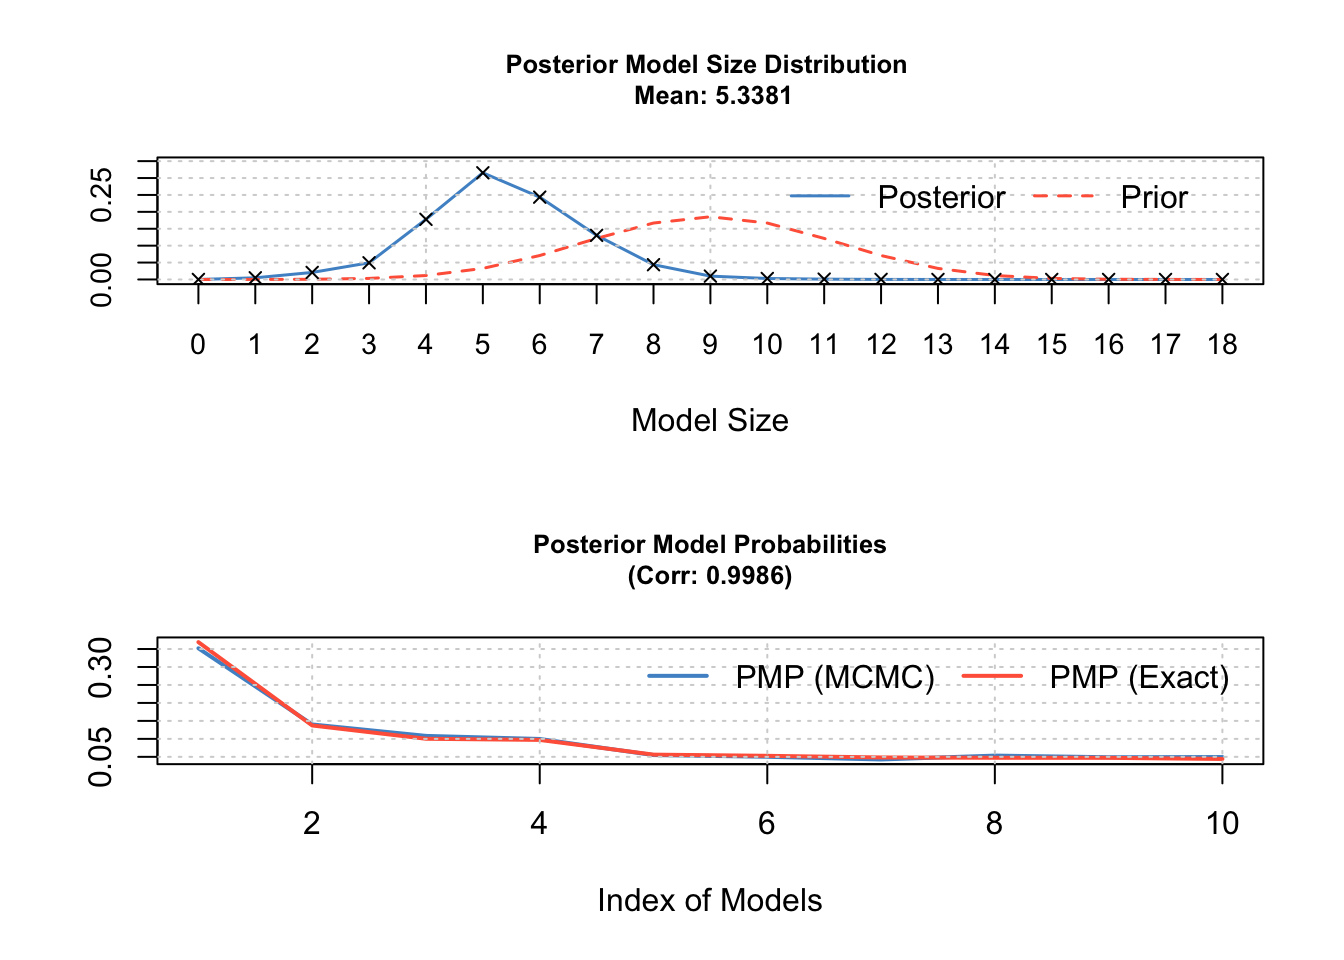
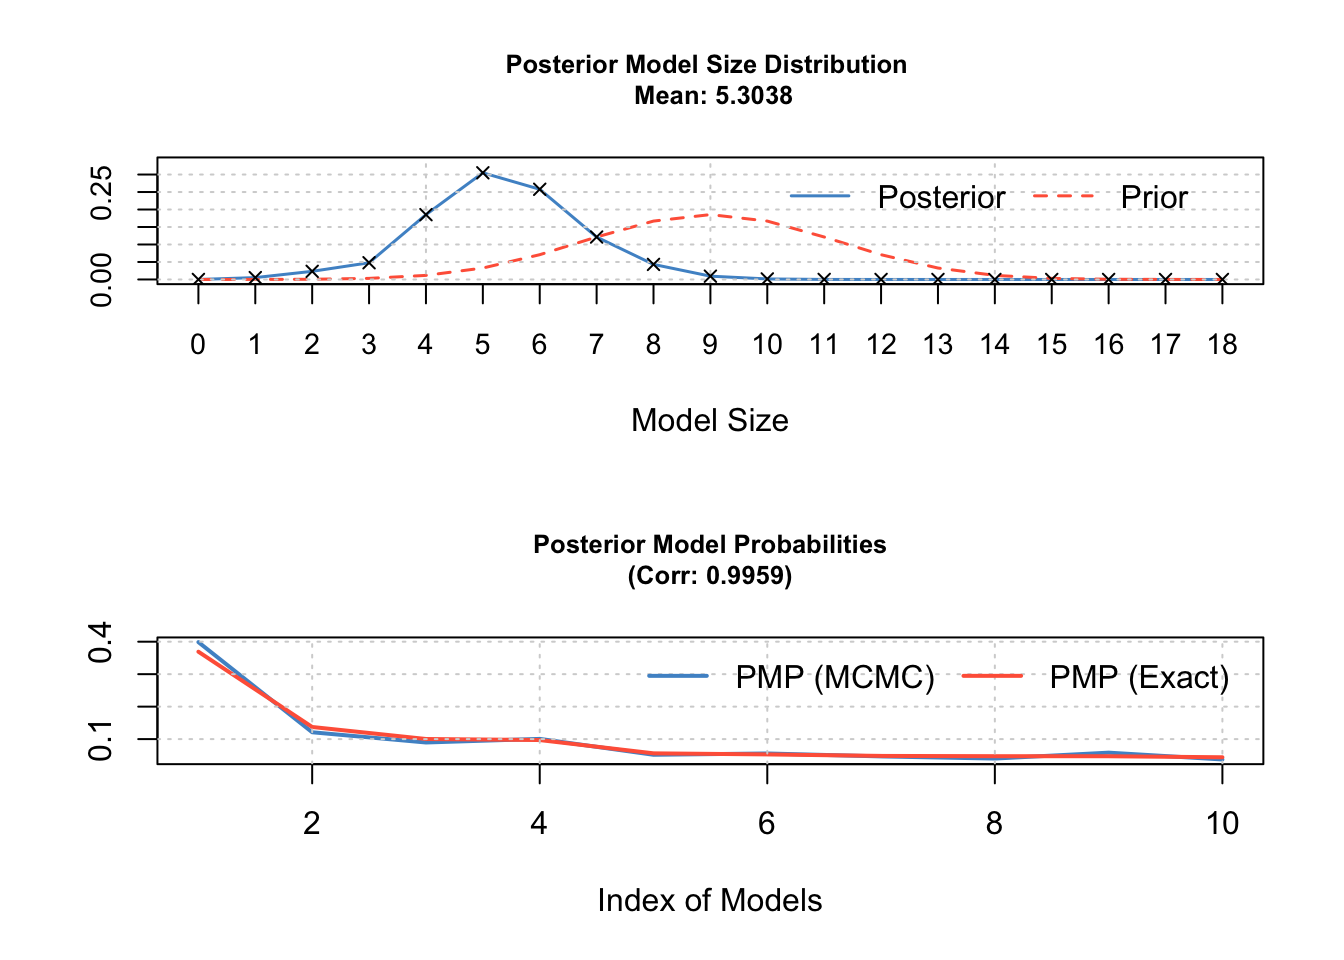
prova

diff --git a/README.md b/README.md
@@ -344,33 +344,33 @@ X.data <- cbind(y, X[,1:18])
 bma1   <- bms(X.data = X.data, burn = 10000, iter = 50000, mprior = "uniform", 
               mcmc = "rev.jump", nmodel = 10, logfile = FALSE)
 ##                 PIP     Post Mean      Post SD Cond.Pos.Sign Idx
-## PPIACO_l1   0.99680  3.266297e-03 0.0009599104    1.00000000  13
-## GDPC1_l1    0.88526  1.196331e+00 0.5829875279    0.99979667   4
-## GASPRICE_l1 0.84214 -2.792352e-02 0.0160532299    0.00007125  18
-## EC_l1       0.78746 -5.790857e-01 0.3654072521    0.00053336   2
-## USPRIV_l1   0.20884 -7.747777e-02 0.2066189914    0.00000000   6
-## T10Y3MM_l1  0.20536 -7.111887e-02 0.2343672630    0.00000000   9
-## HOUST_l1    0.18572  1.520020e-03 0.0041892161    1.00000000   5
-## M1SL_l1     0.15404  2.137163e-03 0.0077733380    0.77862893  11
-## T10YFFM_l1  0.15308 -5.885724e-03 0.1935857244    0.17546381  10
-## DJIA_l1     0.13586  5.338842e-03 0.0189344570    1.00000000  14
-## MICH_l1     0.11760  3.551679e-02 0.1572275567    1.00000000  12
-## NAPMPMI_l1  0.10700 -5.019800e-05 0.0002744935    0.02766355  15
-## OILPRICE_l1 0.10292  7.798076e-04 0.0068086762    0.79246016  17
-## PRFI_l1     0.09842 -3.062937e-03 0.0212311704    0.04998984   3
-## UNRATE_l1   0.09418 -3.072324e-04 0.0462571892    0.47441070   1
-## TB3MS_l1    0.08938  4.181405e-03 0.0371489761    0.84985455   7
-## NAPMSDI_l1  0.08766 -1.888389e-05 0.0001730605    0.09696555  16
-## GS10_l1     0.08642 -3.868457e-05 0.0014295282    0.33695904   8
+## PPIACO_l1   0.99720  3.264392e-03 0.0009608753    1.00000000  13
+## GDPC1_l1    0.88472  1.196029e+00 0.5827948079    0.99979655   4
+## GASPRICE_l1 0.83936 -2.784771e-02 0.0161314895    0.00071483  18
+## EC_l1       0.79246 -5.819827e-01 0.3634166073    0.00045428   2
+## USPRIV_l1   0.20272 -7.437110e-02 0.2022913869    0.00009866   6
+## T10Y3MM_l1  0.19572 -6.591490e-02 0.2215382231    0.00000000   9
+## HOUST_l1    0.17966  1.482692e-03 0.0041580234    1.00000000   5
+## T10YFFM_l1  0.15660 -9.874924e-03 0.1839826870    0.14559387  10
+## M1SL_l1     0.14664  2.026562e-03 0.0075919381    0.80946536  11
+## DJIA_l1     0.13742  5.412202e-03 0.0190438430    1.00000000  14
+## MICH_l1     0.11544  3.397267e-02 0.1520608112    1.00000000  12
+## TB3MS_l1    0.10076  4.892613e-03 0.0394021907    0.85013894   7
+## NAPMPMI_l1  0.09658 -4.473129e-05 0.0002613657    0.03147650  15
+## OILPRICE_l1 0.09572  7.168865e-04 0.0065926166    0.78666945  17
+## UNRATE_l1   0.09548 -1.841846e-04 0.0468454667    0.50041894   1
+## PRFI_l1     0.09176 -2.787283e-03 0.0204909523    0.05732345   3
+## NAPMSDI_l1  0.08884 -1.935531e-05 0.0001748396    0.09140027  16
+## GS10_l1     0.08674 -4.494878e-05 0.0014362988    0.31934517   8
 ## 
 ## Mean no. regressors               Draws             Burnins                Time  No. models visited      Modelspace 2^K 
-##            "5.3381"             "50000"             "10000"     "1.146196 secs"             "13974"            "262144" 
+##            "5.3038"             "50000"             "10000"     "1.129307 secs"             "13505"            "262144" 
 ##           % visited         % Topmodels            Corr PMP            No. Obs.         Model Prior             g-Prior 
-##               "5.3"                "30"            "0.9986"               "125"       "uniform / 9"               "UIP" 
+##               "5.2"                "29"            "0.9959"               "125"       "uniform / 9"               "UIP" 
 ##     Shrinkage-Stats 
 ##         "Av=0.9921" 
 ## 
-## Time difference of 1.146196 secs
+## Time difference of 1.129307 secs
 ```
 
 <img src="README_figs/README-unnamed-chunk-10-1.png" width="672" />
@@ -399,13 +399,13 @@ bma2   <- bms(X.data = X.data, burn = 10000, iter = 50000, mprior = "uniform",
 ## EC_l1       0.00000000  0.000000e+00 0.0000000000            NA   2
 ## 
 ## Mean no. regressors               Draws             Burnins                Time  No. models visited      Modelspace 2^K 
-##            "4.6570"             "50001"                 "0"    "0.8404551 secs"             "50001"            "262144" 
+##            "4.6570"             "50001"                 "0"     "0.829881 secs"             "50001"            "262144" 
 ##           % visited         % Topmodels            Corr PMP            No. Obs.         Model Prior             g-Prior 
 ##                "19"              "0.02"                "NA"               "125"       "uniform / 9"               "UIP" 
 ##     Shrinkage-Stats 
 ##         "Av=0.9921" 
 ## 
-## Time difference of 0.8404551 secs
+## Time difference of 0.829881 secs
 ```
 
 <img src="README_figs/README-unnamed-chunk-10-2.png" width="672" />
@@ -415,9 +415,9 @@ bma2   <- bms(X.data = X.data, burn = 10000, iter = 50000, mprior = "uniform",
 # summary
 summary(bma1)
 ## Mean no. regressors               Draws             Burnins                Time  No. models visited      Modelspace 2^K 
-##            "5.3381"             "50000"             "10000"     "1.146196 secs"             "13974"            "262144" 
+##            "5.3038"             "50000"             "10000"     "1.129307 secs"             "13505"            "262144" 
 ##           % visited         % Topmodels            Corr PMP            No. Obs.         Model Prior             g-Prior 
-##               "5.3"                "30"            "0.9986"               "125"       "uniform / 9"               "UIP" 
+##               "5.2"                "29"            "0.9959"               "125"       "uniform / 9"               "UIP" 
 ##     Shrinkage-Stats 
 ##         "Av=0.9921"
 ```
@@ -453,16 +453,16 @@ coef(bma1, exact = TRUE, std.coefs = FALSE, order.by.pip = FALSE, include.consta
 # best models
 bma1$topmod
 ##       Marg.Log.Lik MCMC Freq
-## 14021     170.5815      5219
-## 14221     169.5927      2078
-## 16021     169.2789      1606
-## 14121     169.2464      1479
-## 14031     168.6989       814
-## 14821     168.6382       745
-## 34021     168.5470       633
-## 14029     168.5292       793
-## 050a1     168.5261       725
-## 14020     168.4559       734
+## 14021     170.5815      5816
+## 14221     169.5927      1767
+## 16021     169.2789      1307
+## 14121     169.2464      1469
+## 14031     168.6989       755
+## 14821     168.6382       814
+## 34021     168.5470       682
+## 14029     168.5292       585
+## 050a1     168.5261       850
+## 14020     168.4559       544
 ```
 
 ``` r
@@ -484,27 +484,27 @@ bma2$topmod
 
 #show binaries for 1st, 2nd and 3rd best model, without the model probs
 topmodels.bma(bma1[1:8])
-##                14021     14221      16021     14121      14031      14821      34021      14029
-## UNRATE_l1   0.000000 0.0000000 0.00000000 0.0000000 0.00000000 0.00000000 1.00000000 0.00000000
-## EC_l1       1.000000 1.0000000 1.00000000 1.0000000 1.00000000 1.00000000 1.00000000 1.00000000
-## PRFI_l1     0.000000 0.0000000 0.00000000 0.0000000 0.00000000 0.00000000 0.00000000 0.00000000
-## GDPC1_l1    1.000000 1.0000000 1.00000000 1.0000000 1.00000000 1.00000000 1.00000000 1.00000000
-## HOUST_l1    0.000000 0.0000000 1.00000000 0.0000000 0.00000000 0.00000000 0.00000000 0.00000000
-## USPRIV_l1   0.000000 0.0000000 0.00000000 0.0000000 0.00000000 0.00000000 0.00000000 0.00000000
-## TB3MS_l1    0.000000 0.0000000 0.00000000 0.0000000 0.00000000 1.00000000 0.00000000 0.00000000
-## GS10_l1     0.000000 0.0000000 0.00000000 0.0000000 0.00000000 0.00000000 0.00000000 0.00000000
-## T10Y3MM_l1  0.000000 1.0000000 0.00000000 0.0000000 0.00000000 0.00000000 0.00000000 0.00000000
-## T10YFFM_l1  0.000000 0.0000000 0.00000000 1.0000000 0.00000000 0.00000000 0.00000000 0.00000000
-## M1SL_l1     0.000000 0.0000000 0.00000000 0.0000000 0.00000000 0.00000000 0.00000000 0.00000000
-## MICH_l1     0.000000 0.0000000 0.00000000 0.0000000 0.00000000 0.00000000 0.00000000 0.00000000
-## PPIACO_l1   1.000000 1.0000000 1.00000000 1.0000000 1.00000000 1.00000000 1.00000000 1.00000000
-## DJIA_l1     0.000000 0.0000000 0.00000000 0.0000000 1.00000000 0.00000000 0.00000000 0.00000000
-## NAPMPMI_l1  0.000000 0.0000000 0.00000000 0.0000000 0.00000000 0.00000000 0.00000000 1.00000000
-## NAPMSDI_l1  0.000000 0.0000000 0.00000000 0.0000000 0.00000000 0.00000000 0.00000000 0.00000000
-## OILPRICE_l1 0.000000 0.0000000 0.00000000 0.0000000 0.00000000 0.00000000 0.00000000 0.00000000
-## GASPRICE_l1 1.000000 1.0000000 1.00000000 1.0000000 1.00000000 1.00000000 1.00000000 1.00000000
-## PMP (Exact) 0.108604 0.0404032 0.02952279 0.0285769 0.01652918 0.01555508 0.01419996 0.01394885
-## PMP (MCMC)  0.104380 0.0415600 0.03212000 0.0295800 0.01628000 0.01490000 0.01266000 0.01586000
+##                 14021      14221     16021      14121      14031      14821      34021      14029
+## UNRATE_l1   0.0000000 0.00000000 0.0000000 0.00000000 0.00000000 0.00000000 1.00000000 0.00000000
+## EC_l1       1.0000000 1.00000000 1.0000000 1.00000000 1.00000000 1.00000000 1.00000000 1.00000000
+## PRFI_l1     0.0000000 0.00000000 0.0000000 0.00000000 0.00000000 0.00000000 0.00000000 0.00000000
+## GDPC1_l1    1.0000000 1.00000000 1.0000000 1.00000000 1.00000000 1.00000000 1.00000000 1.00000000
+## HOUST_l1    0.0000000 0.00000000 1.0000000 0.00000000 0.00000000 0.00000000 0.00000000 0.00000000
+## USPRIV_l1   0.0000000 0.00000000 0.0000000 0.00000000 0.00000000 0.00000000 0.00000000 0.00000000
+## TB3MS_l1    0.0000000 0.00000000 0.0000000 0.00000000 0.00000000 1.00000000 0.00000000 0.00000000
+## GS10_l1     0.0000000 0.00000000 0.0000000 0.00000000 0.00000000 0.00000000 0.00000000 0.00000000
+## T10Y3MM_l1  0.0000000 1.00000000 0.0000000 0.00000000 0.00000000 0.00000000 0.00000000 0.00000000
+## T10YFFM_l1  0.0000000 0.00000000 0.0000000 1.00000000 0.00000000 0.00000000 0.00000000 0.00000000
+## M1SL_l1     0.0000000 0.00000000 0.0000000 0.00000000 0.00000000 0.00000000 0.00000000 0.00000000
+## MICH_l1     0.0000000 0.00000000 0.0000000 0.00000000 0.00000000 0.00000000 0.00000000 0.00000000
+## PPIACO_l1   1.0000000 1.00000000 1.0000000 1.00000000 1.00000000 1.00000000 1.00000000 1.00000000
+## DJIA_l1     0.0000000 0.00000000 0.0000000 0.00000000 1.00000000 0.00000000 0.00000000 0.00000000
+## NAPMPMI_l1  0.0000000 0.00000000 0.0000000 0.00000000 0.00000000 0.00000000 0.00000000 1.00000000
+## NAPMSDI_l1  0.0000000 0.00000000 0.0000000 0.00000000 0.00000000 0.00000000 0.00000000 0.00000000
+## OILPRICE_l1 0.0000000 0.00000000 0.0000000 0.00000000 0.00000000 0.00000000 0.00000000 0.00000000
+## GASPRICE_l1 1.0000000 1.00000000 1.0000000 1.00000000 1.00000000 1.00000000 1.00000000 1.00000000
+## PMP (Exact) 0.1072066 0.03988331 0.0291429 0.02820919 0.01631649 0.01535493 0.01401724 0.01376937
+## PMP (MCMC)  0.1163200 0.03534000 0.0261400 0.02938000 0.01510000 0.01628000 0.01364000 0.01170000
 ```
 
 ``` r
@@ -830,7 +830,7 @@ tau.ada    <- 2
 
 # fit CV
 mod_cv <- fdaSP:::lmSP_cv(X = as.matrix(X), y = y, penalty = "LASSO", 
-                          standardize.data = TRUE, intercept = TRUE,
+                          standardize.data = TRUE, intercept = FALSE,
                           cv.fold = 5, nlambda = 30, 
                           control = list("adaptation" = TRUE, 
                                          "rho" = rho, 
@@ -838,7 +838,6 @@ mod_cv <- fdaSP:::lmSP_cv(X = as.matrix(X), y = y, penalty = "LASSO",
                                          "reltol" = reltol, 
                                          "abstol" = abstol, 
                                          "print.out" = FALSE)) 
-## Warning in linreg_ADMM_LASSO_cv(X = X, Z = Z, y = y, var_weights = var_weights, : * linreg_ADMM_LASSO_cv : intercept should be set to FALSE is data are standardized!
 ```
 
 ``` r
@@ -854,6 +853,28 @@ abline(v = log(mod_cv$lambda[which(mod_cv$lambda == mod_cv$lambda.min)]),
 ```
 
 <img src="README_figs/README-unnamed-chunk-13-1.png" width="672" />
+
+``` r
+mod <- fdaSP::lmSP(X = as.matrix(X), y = y, 
+                   penalty = "lasso", 
+                   standardize.data = TRUE, 
+                   intercept = FALSE,
+                   nlambda = 30, 
+                   control = list("adaptation" = TRUE, 
+                                  "rho" = rho, 
+                                  "maxit" = maxit, 
+                                  "reltol" = reltol, 
+                                  "abstol" = abstol, 
+                                  "print.out" = FALSE)) 
+```
+
+``` r
+# plot
+par(mfrow=c(1,1))
+matplot(log(mod$lambda), mod$sp.coef.path, ty="l")
+```
+
+<img src="README_figs/README-unnamed-chunk-15-1.png" width="672" />
 
 # References
 
